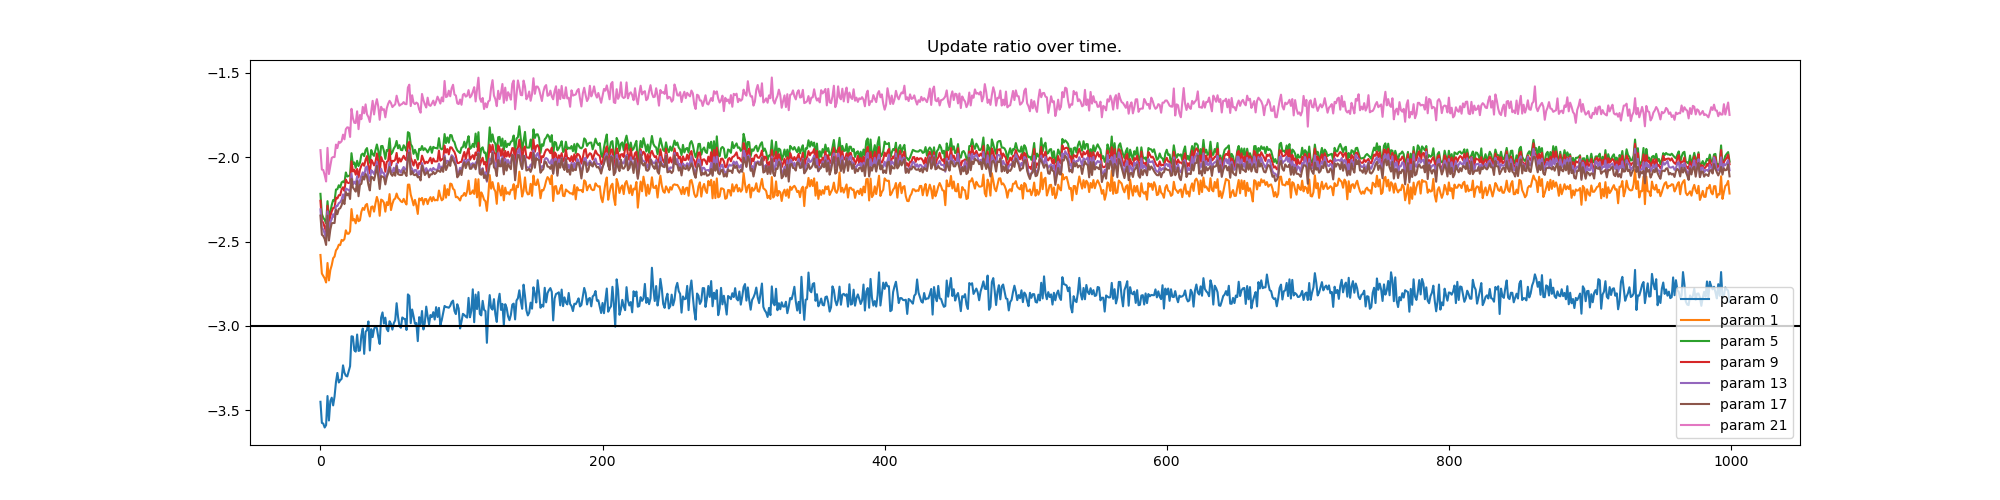
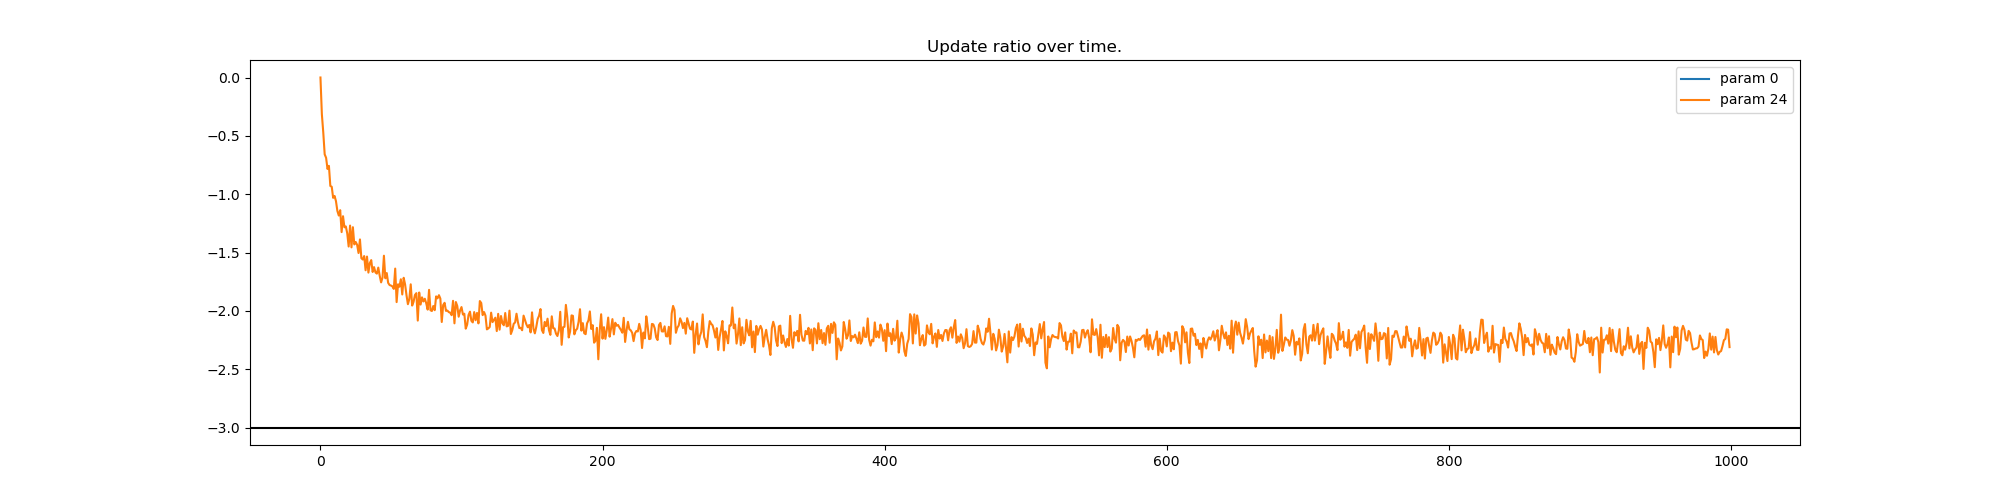
Investigate parameters
This commit investigates whether the parameters are trained when they
are initialized to zero. From the investigation, we discovered that the
bias of the batch norm layers trained.

diff --git a/batch_norm.py b/batch_norm.py
@@ -1,7 +1,6 @@
 """
 This module shows the various ways normalization could be implemented
 in the previous MLP architecture.
-# TO DO: add the remaining plots
 # TO DO: do the youtube exercises
 Exercises:
 E01: I did not get around to seeing what happens when you initialize all weights and biases to zero.
@@ -21,6 +20,7 @@ norm group norm, instance norm)
 """
 
 # pylint: disable=redefined-outer-name,too-many-instance-attributes, too-many-locals, too-many-arguments
+import math
 import random
 from typing import Tuple, List, Union
 import matplotlib.pyplot as plt
@@ -68,13 +68,14 @@ class Linear:
     """
 
     def __init__(self, in_features: int, out_features: int, bias: bool = True) -> None:
-        self.weight = torch.normal(
-            0,
-            (1 / (in_features**0.5)),
-            (in_features, out_features),
-            generator=GENERATOR,
-            device=DEVICE,
-        )
+        # self.weight = torch.normal(
+        #     0,
+        #     (1 / (in_features**0.5)),
+        #     (in_features, out_features),
+        #     generator=GENERATOR,
+        #     device=DEVICE,
+        # )
+        self.weight = torch.zeros((in_features,out_features),device=DEVICE)
         self.bias = torch.zeros(out_features, device=DEVICE) if bias else None
         self.output = None
 
@@ -102,7 +103,8 @@ class BatchNorm:
         self.eps = eps
         self.momentum = momentum
         self.training = True
-        self.gamma = torch.ones(num_features, device=DEVICE)
+        # self.gamma = torch.ones(num_features, device=DEVICE)
+        self.gamma = torch.zeros(num_features, device=DEVICE)
         self.beta = torch.zeros(num_features, device=DEVICE)
         self.running_mean = torch.zeros(num_features, device=DEVICE)
         self.running_var = torch.ones(num_features, device=DEVICE)
@@ -246,7 +248,8 @@ def train(
     decayed_learning_rate_2 = learning_rate * 0.1**2
     parameters = [parameter for layer in model for parameter in layer.parameters()]
     print(
-        f"\nTraining model with {sum(parameter.nelement() for parameter in parameters)} parameters"
+        f"\nTraining model with {len(parameters)} parameters "
+        f"with {sum(parameter.nelement() for parameter in parameters)} values"
     )
     for parameter in parameters:
         parameter.requires_grad = True
@@ -396,14 +399,32 @@ for index, parameter in enumerate(parameters):
 plt.title("Weight Gradient Distribution")
 plt.savefig("images/weights_gradient_distributions")
 
+# plt.figure(figsize=(20, 5))
+# for index, parameter in enumerate(parameters):
+#     param_update_ratios  = [update_ratio[j][index] for j in range(len(update_ratio))]
+#     if parameter.ndim == 2:
+#         sns.lineplot(
+#             x = range(len(param_update_ratios)),
+#             y = param_update_ratios,
+#             label=f"param {index}"
+#         )
+# plt.axhline(y=-3, color='black', linestyle='-', label="Standard")
+# plt.title("Update ratio over time.")
+# plt.savefig("images/update_ratio_over_time")
+
+print("\n")
 plt.figure(figsize=(20, 5))
 for index, parameter in enumerate(parameters):
-    if parameter.ndim == 2:
+    param_update_ratios  = [update_ratio[j][index] for j in range(len(update_ratio))]
+    if not any(math.isnan(x) for x in param_update_ratios):
+        print(f"Parameter at index {index} with shape ({parameter.shape}) trained.")
         sns.lineplot(
-            x = range(len([update_ratio[j][index] for j in range(len(update_ratio))])),
-            y = [update_ratio[j][index] for j in range(len(update_ratio))],
+            x = range(len(param_update_ratios)),
+            y = param_update_ratios,
             label=f"param {index}"
         )
+    else:
+        print(f"Parameter at index {index} with shape ({parameter.shape}) did not train.")
 plt.axhline(y=-3, color='black', linestyle='-', label="Standard")
 plt.title("Update ratio over time.")
 plt.savefig("images/update_ratio_over_time")
